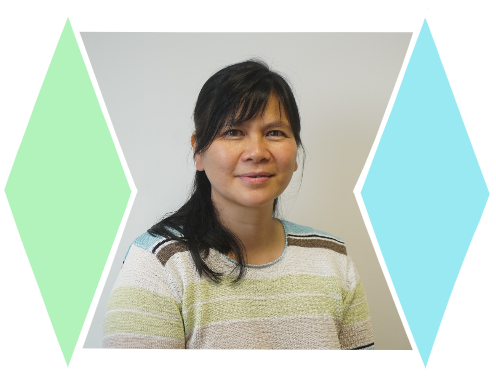
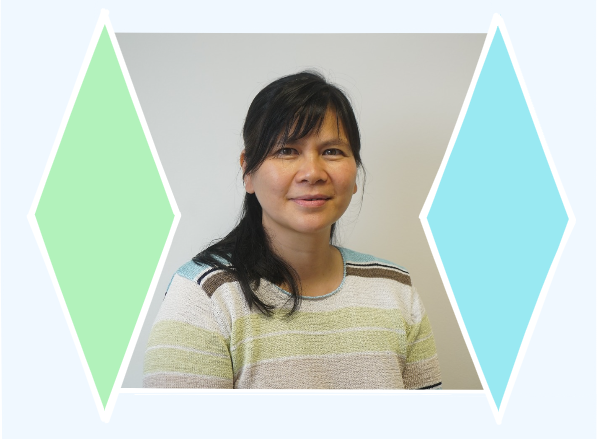
format qui suis je

Changed region(s): [[0.0, 0.0576, 0.998, 0.9503], [0.5444, 0.1728, 0.5746, 0.2016]]

diff --git a/CSS/style-autres.css b/CSS/style-autres.css
@@ -94,11 +94,12 @@ body {
 /** QUI SUIS-JE **/
 
 .flex {
-    height: 100%;
+    height: fit-content;
     display: flex;
     justify-content: center;
     overflow-y: auto;
     position: relative;
+    background-color: aliceblue;
 }
 
 .container-photo {
@@ -121,10 +122,12 @@ img {
     display: flex;
     justify-content: center;
     width: 60%;
+    margin-right: 10px;
 }
 
 .situ {
-    background-color: #d9eaf4b7;
+    /* background-color: #d9eaf4b7; */
+    background-color: rgb(251, 242, 228);
     height: 50vh;
     border-radius: 50%;
     text-align: center;
@@ -142,7 +145,8 @@ p {
     margin-right: 8px;
 }
 
-/** MON-PARCOURS **/
+
+/** MON-PARCOURS ET PORTFOLIO **/
 
 .main-parcours {
     background-color: aliceblue;

diff --git a/qui-suis-je.php b/qui-suis-je.php
@@ -2,8 +2,9 @@
 require_once "./templates/header-autres.php";
 ?>
 
-    <main class="flex">
+    <main class="main-parcours">
 
+    <section class="flex">
         <div class="container-photo">
             <img src="./assets/photo-tuyen2.png" alt="Photo Tuyen">
         </div>
@@ -21,14 +22,21 @@ require_once "./templates/header-autres.php";
                 </p>
             </div>
         </div>
+        </section>
+
+        <section>
+        <br>
+        <br>
+        <br>
+        </section>
+
+
+        <div class="lien-CV"></div>
 
     </main>
-
-    <br>
-    <br>
-    <br>
-    <div class="lien-CV"></div>
     
+
+
 <?php
 require_once "./templates/footer.php";
 ?>

diff --git a/mon-parcours.php b/mon-parcours.php
@@ -108,7 +108,7 @@ require_once "./templates/header-autres.php";
         </div>
         <div class="company">
             <p><strong>Fondatrice et gérante</strong> (temps partiel)</p>
-            <p class="italique">Eternaloe, Courbevoie</p>
+            <p class="italique">Eternaloe SARL, Courbevoie</p>
         </div>
         <div class="job-description">
             <p>Domaine d'activité : Site e-commerce</p>
